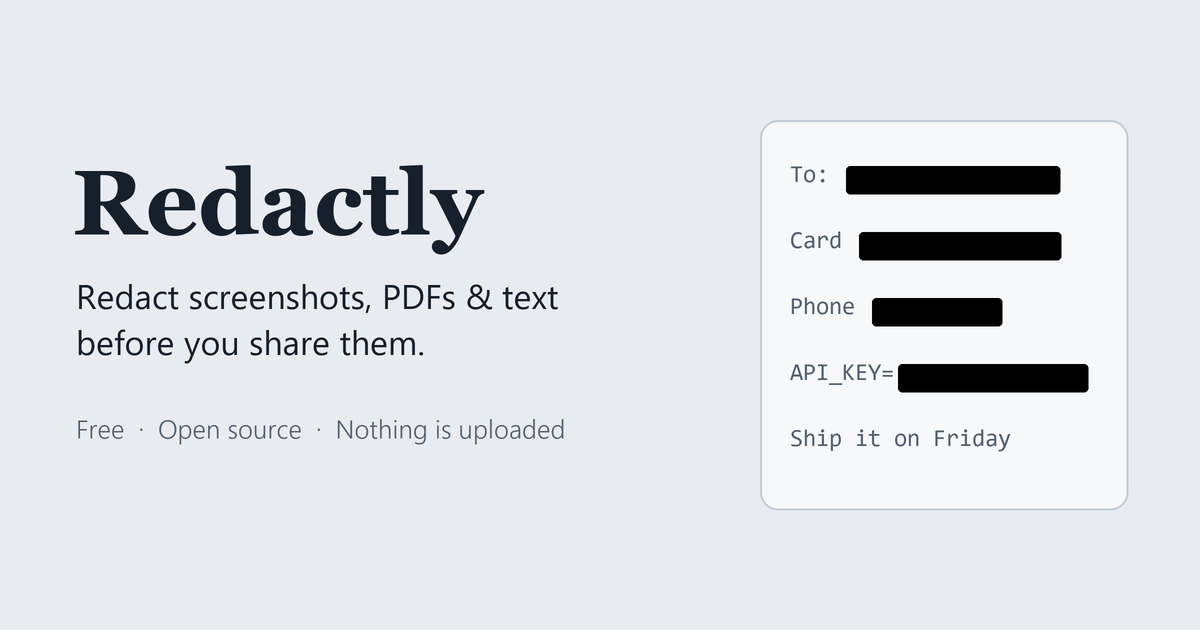
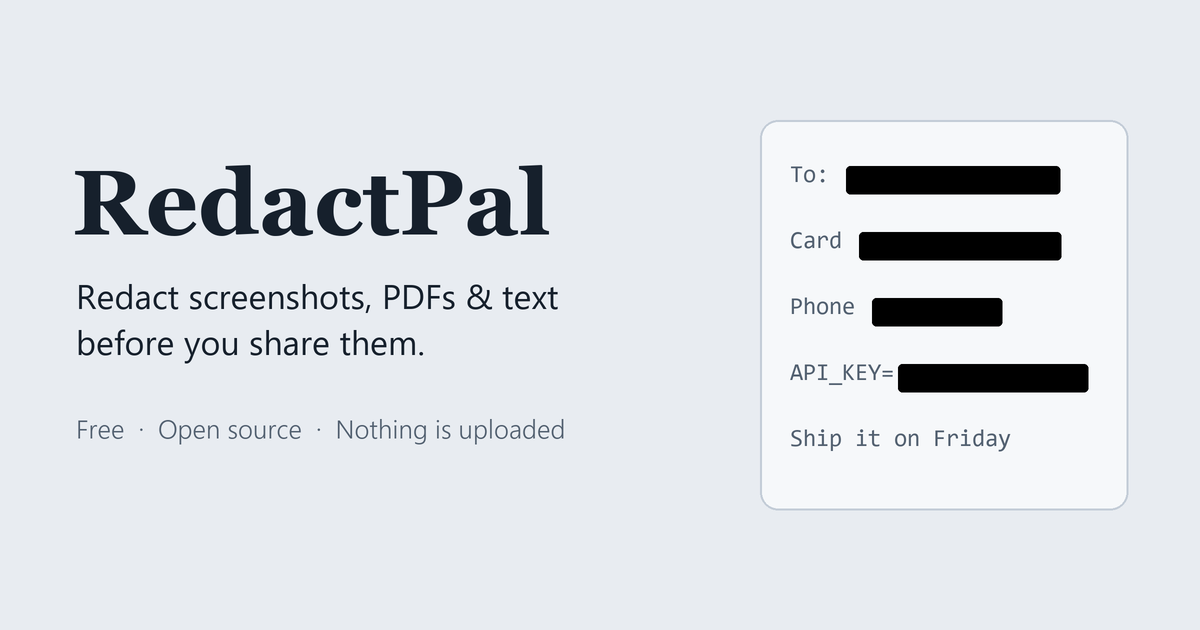
Rename to RedactPal (redactpal.com)
The name Redactly is already used by other redaction products
(redactly.online and several apps). RedactPal had no conflicting
product, app, repository or US trademark. Updates the UI, metadata,
canonical/Open Graph URLs, sitemap, robots, llms.txt, manifest, README,
preview image and package name.

Changed region(s): [[0.3392, 0.2413, 0.4625, 0.4222]]

diff --git a/index.html b/index.html
@@ -5,25 +5,25 @@
   <meta name="viewport" content="width=device-width, initial-scale=1, viewport-fit=cover" />
   <meta http-equiv="Content-Security-Policy" content="default-src 'self'; script-src 'self' 'wasm-unsafe-eval'; worker-src 'self' blob:; img-src 'self' blob: data:; connect-src 'self' blob: data:; style-src 'self' 'unsafe-inline'; object-src 'none'; base-uri 'none'; form-action 'none'" />
   <meta name="referrer" content="no-referrer" />
-  <title>Redactly — Redact screenshots, PDFs &amp; text before you share (free, private)</title>
+  <title>RedactPal — Redact screenshots, PDFs &amp; text before you share (free, private)</title>
   <meta name="description" content="Free online redaction tool that runs in your browser. Black out emails, phone numbers, card numbers, API keys and names in screenshots, PDFs and text — nothing is uploaded. Open source." />
-  <link rel="canonical" href="https://redactly.fyi/" />
+  <link rel="canonical" href="https://redactpal.com/" />
   <meta name="robots" content="index, follow" />
   <!-- Link previews (iMessage, WhatsApp, Slack, X, LinkedIn…) -->
   <meta property="og:type" content="website" />
-  <meta property="og:site_name" content="Redactly" />
-  <meta property="og:url" content="https://redactly.fyi/" />
-  <meta property="og:title" content="Redactly — redact screenshots, PDFs &amp; text before you share" />
+  <meta property="og:site_name" content="RedactPal" />
+  <meta property="og:url" content="https://redactpal.com/" />
+  <meta property="og:title" content="RedactPal — redact screenshots, PDFs &amp; text before you share" />
   <meta property="og:description" content="Black out emails, phone numbers, card numbers and API keys. Free, open source, and nothing is uploaded — it runs in your browser." />
-  <meta property="og:image" content="https://redactly.fyi/og.png" />
+  <meta property="og:image" content="https://redactpal.com/og.png" />
   <meta property="og:image:width" content="1200" />
   <meta property="og:image:height" content="630" />
-  <meta property="og:image:alt" content="Redactly: a document with an email, card number, phone number and API key blacked out" />
+  <meta property="og:image:alt" content="RedactPal: a document with an email, card number, phone number and API key blacked out" />
   <meta name="twitter:card" content="summary_large_image" />
-  <meta name="twitter:title" content="Redactly — redact screenshots, PDFs &amp; text before you share" />
+  <meta name="twitter:title" content="RedactPal — redact screenshots, PDFs &amp; text before you share" />
   <meta name="twitter:description" content="Free, open source, and nothing is uploaded — it runs in your browser." />
-  <meta name="twitter:image" content="https://redactly.fyi/og.png" />
-  <script type="application/ld+json">{"@context":"https://schema.org","@type":"WebApplication","name":"Redactly","url":"https://redactly.fyi/","applicationCategory":"UtilitiesApplication","operatingSystem":"Any (web browser)","offers":{"@type":"Offer","price":"0","priceCurrency":"USD"},"description":"Free in-browser tool to redact screenshots, PDFs and text before sharing. Detects emails, phone numbers, card numbers and API keys; nothing is uploaded.","isAccessibleForFree":true,"license":"https://opensource.org/licenses/MIT"}</script>
+  <meta name="twitter:image" content="https://redactpal.com/og.png" />
+  <script type="application/ld+json">{"@context":"https://schema.org","@type":"WebApplication","name":"RedactPal","url":"https://redactpal.com/","applicationCategory":"UtilitiesApplication","operatingSystem":"Any (web browser)","offers":{"@type":"Offer","price":"0","priceCurrency":"USD"},"description":"Free in-browser tool to redact screenshots, PDFs and text before sharing. Detects emails, phone numbers, card numbers and API keys; nothing is uploaded.","isAccessibleForFree":true,"license":"https://opensource.org/licenses/MIT"}</script>
   <meta name="color-scheme" content="light dark" />
   <meta name="theme-color" content="#E8ECF1" media="(prefers-color-scheme: light)" />
   <meta name="theme-color" content="#0F1318" media="(prefers-color-scheme: dark)" />
@@ -32,25 +32,25 @@
   <link rel="apple-touch-icon" href="/icons/apple-touch-icon.png" />
   <meta name="mobile-web-app-capable" content="yes" />
   <meta name="apple-mobile-web-app-capable" content="yes" />
-  <meta name="apple-mobile-web-app-title" content="Redactly" />
+  <meta name="apple-mobile-web-app-title" content="RedactPal" />
   <meta name="apple-mobile-web-app-status-bar-style" content="default" />
-  <script type="application/ld+json">{"@context":"https://schema.org","@type":"FAQPage","mainEntity":[{"@type":"Question","name":"How do I redact a screenshot?","acceptedAnswer":{"@type":"Answer","text":"Open redactly.fyi and paste the screenshot (Ctrl+V or ⌘V), drop it on the page, or tap “Choose a photo or PDF” on a phone. Emails, phone numbers, card numbers, API keys and other sensitive text are found and highlighted. Tap a highlight to keep it visible, drag over anything that was missed, then copy, share or save the image. The result has solid black boxes."}},{"@type":"Question","name":"How do I redact a PDF for free?","acceptedAnswer":{"@type":"Answer","text":"Drop the PDF on redactly.fyi, check the highlighted items on every page, and download the redacted PDF. Each page is rebuilt from pixels, so text under a box can’t be copied out, and metadata such as author and title is removed. It’s free and needs no account."}},{"@type":"Question","name":"Is my file uploaded anywhere?","acceptedAnswer":{"@type":"Answer","text":"No. Redactly runs entirely in your browser: text recognition and detection happen on your device, and the page is blocked from connecting to other servers. After the first visit it even works offline. The code is open source, so anyone can check."}},{"@type":"Question","name":"Why not just blur or pixelate sensitive info?","acceptedAnswer":{"@type":"Answer","text":"Blurred and pixelated text can often be reconstructed. Redactly only uses solid, opaque boxes, and re-encodes the image so nothing of the original survives under them."}},{"@type":"Question","name":"What does Redactly detect automatically?","acceptedAnswer":{"@type":"Answer","text":"Email addresses, phone numbers, credit card numbers, IBANs, US Social Security numbers, IP addresses, passwords, JWTs and API keys from AWS, GitHub, GitLab, Slack, Stripe, OpenAI, Anthropic, Google and more. Names and addresses have no fixed format: draw a box over one once and Redactly offers to hide it everywhere it appears."}},{"@type":"Question","name":"Can I redact text before pasting it into ChatGPT or another AI?","acceptedAnswer":{"@type":"Answer","text":"Yes. Paste the text and copy the safe version: sensitive values become placeholders like [EMAIL_1]. When the AI replies, paste the reply back and Redactly puts your real details back in."}},{"@type":"Question","name":"Does it work on iPhone and Android?","acceptedAnswer":{"@type":"Answer","text":"Yes. Open redactly.fyi in any mobile browser, pick a photo or PDF, and share the result. You can add it to your home screen, and on Android you can share a photo straight to Redactly."}},{"@type":"Question","name":"Can my company use or self-host Redactly?","acceptedAnswer":{"@type":"Answer","text":"Yes. Redactly is MIT-licensed and is just static files, so it can be hosted on an internal server with no backend. Files never leave the device."}}]}</script>
+  <script type="application/ld+json">{"@context":"https://schema.org","@type":"FAQPage","mainEntity":[{"@type":"Question","name":"How do I redact a screenshot?","acceptedAnswer":{"@type":"Answer","text":"Open redactpal.com and paste the screenshot (Ctrl+V or ⌘V), drop it on the page, or tap “Choose a photo or PDF” on a phone. Emails, phone numbers, card numbers, API keys and other sensitive text are found and highlighted. Tap a highlight to keep it visible, drag over anything that was missed, then copy, share or save the image. The result has solid black boxes."}},{"@type":"Question","name":"How do I redact a PDF for free?","acceptedAnswer":{"@type":"Answer","text":"Drop the PDF on redactpal.com, check the highlighted items on every page, and download the redacted PDF. Each page is rebuilt from pixels, so text under a box can’t be copied out, and metadata such as author and title is removed. It’s free and needs no account."}},{"@type":"Question","name":"Is my file uploaded anywhere?","acceptedAnswer":{"@type":"Answer","text":"No. RedactPal runs entirely in your browser: text recognition and detection happen on your device, and the page is blocked from connecting to other servers. After the first visit it even works offline. The code is open source, so anyone can check."}},{"@type":"Question","name":"Why not just blur or pixelate sensitive info?","acceptedAnswer":{"@type":"Answer","text":"Blurred and pixelated text can often be reconstructed. RedactPal only uses solid, opaque boxes, and re-encodes the image so nothing of the original survives under them."}},{"@type":"Question","name":"What does RedactPal detect automatically?","acceptedAnswer":{"@type":"Answer","text":"Email addresses, phone numbers, credit card numbers, IBANs, US Social Security numbers, IP addresses, passwords, JWTs and API keys from AWS, GitHub, GitLab, Slack, Stripe, OpenAI, Anthropic, Google and more. Names and addresses have no fixed format: draw a box over one once and RedactPal offers to hide it everywhere it appears."}},{"@type":"Question","name":"Can I redact text before pasting it into ChatGPT or another AI?","acceptedAnswer":{"@type":"Answer","text":"Yes. Paste the text and copy the safe version: sensitive values become placeholders like [EMAIL_1]. When the AI replies, paste the reply back and RedactPal puts your real details back in."}},{"@type":"Question","name":"Does it work on iPhone and Android?","acceptedAnswer":{"@type":"Answer","text":"Yes. Open redactpal.com in any mobile browser, pick a photo or PDF, and share the result. You can add it to your home screen, and on Android you can share a photo straight to RedactPal."}},{"@type":"Question","name":"Can my company use or self-host RedactPal?","acceptedAnswer":{"@type":"Answer","text":"Yes. RedactPal is MIT-licensed and is just static files, so it can be hosted on an internal server with no backend. Files never leave the device."}}]}</script>
 </head>
 <body>
   <div id="app">
-    <noscript>Redactly needs JavaScript to read your files locally. Nothing is uploaded.</noscript>
+    <noscript>RedactPal needs JavaScript to read your files locally. Nothing is uploaded.</noscript>
   </div>
   <!-- Static, crawlable answers to what people search for (shown below the tool on the start screen). -->
   <section class="faq" aria-labelledby="faq-title">
     <h2 id="faq-title">Redact screenshots, PDFs and text — questions</h2>
-      <details class="faq__item"><summary>How do I redact a screenshot?</summary><p>Open redactly.fyi and paste the screenshot (Ctrl+V or ⌘V), drop it on the page, or tap “Choose a photo or PDF” on a phone. Emails, phone numbers, card numbers, API keys and other sensitive text are found and highlighted. Tap a highlight to keep it visible, drag over anything that was missed, then copy, share or save the image. The result has solid black boxes.</p></details>
-      <details class="faq__item"><summary>How do I redact a PDF for free?</summary><p>Drop the PDF on redactly.fyi, check the highlighted items on every page, and download the redacted PDF. Each page is rebuilt from pixels, so text under a box can’t be copied out, and metadata such as author and title is removed. It’s free and needs no account.</p></details>
-      <details class="faq__item"><summary>Is my file uploaded anywhere?</summary><p>No. Redactly runs entirely in your browser: text recognition and detection happen on your device, and the page is blocked from connecting to other servers. After the first visit it even works offline. The code is open source, so anyone can check.</p></details>
-      <details class="faq__item"><summary>Why not just blur or pixelate sensitive info?</summary><p>Blurred and pixelated text can often be reconstructed. Redactly only uses solid, opaque boxes, and re-encodes the image so nothing of the original survives under them.</p></details>
-      <details class="faq__item"><summary>What does Redactly detect automatically?</summary><p>Email addresses, phone numbers, credit card numbers, IBANs, US Social Security numbers, IP addresses, passwords, JWTs and API keys from AWS, GitHub, GitLab, Slack, Stripe, OpenAI, Anthropic, Google and more. Names and addresses have no fixed format: draw a box over one once and Redactly offers to hide it everywhere it appears.</p></details>
-      <details class="faq__item"><summary>Can I redact text before pasting it into ChatGPT or another AI?</summary><p>Yes. Paste the text and copy the safe version: sensitive values become placeholders like [EMAIL_1]. When the AI replies, paste the reply back and Redactly puts your real details back in.</p></details>
-      <details class="faq__item"><summary>Does it work on iPhone and Android?</summary><p>Yes. Open redactly.fyi in any mobile browser, pick a photo or PDF, and share the result. You can add it to your home screen, and on Android you can share a photo straight to Redactly.</p></details>
-      <details class="faq__item"><summary>Can my company use or self-host Redactly?</summary><p>Yes. Redactly is MIT-licensed and is just static files, so it can be hosted on an internal server with no backend. Files never leave the device.</p></details>
+      <details class="faq__item"><summary>How do I redact a screenshot?</summary><p>Open redactpal.com and paste the screenshot (Ctrl+V or ⌘V), drop it on the page, or tap “Choose a photo or PDF” on a phone. Emails, phone numbers, card numbers, API keys and other sensitive text are found and highlighted. Tap a highlight to keep it visible, drag over anything that was missed, then copy, share or save the image. The result has solid black boxes.</p></details>
+      <details class="faq__item"><summary>How do I redact a PDF for free?</summary><p>Drop the PDF on redactpal.com, check the highlighted items on every page, and download the redacted PDF. Each page is rebuilt from pixels, so text under a box can’t be copied out, and metadata such as author and title is removed. It’s free and needs no account.</p></details>
+      <details class="faq__item"><summary>Is my file uploaded anywhere?</summary><p>No. RedactPal runs entirely in your browser: text recognition and detection happen on your device, and the page is blocked from connecting to other servers. After the first visit it even works offline. The code is open source, so anyone can check.</p></details>
+      <details class="faq__item"><summary>Why not just blur or pixelate sensitive info?</summary><p>Blurred and pixelated text can often be reconstructed. RedactPal only uses solid, opaque boxes, and re-encodes the image so nothing of the original survives under them.</p></details>
+      <details class="faq__item"><summary>What does RedactPal detect automatically?</summary><p>Email addresses, phone numbers, credit card numbers, IBANs, US Social Security numbers, IP addresses, passwords, JWTs and API keys from AWS, GitHub, GitLab, Slack, Stripe, OpenAI, Anthropic, Google and more. Names and addresses have no fixed format: draw a box over one once and RedactPal offers to hide it everywhere it appears.</p></details>
+      <details class="faq__item"><summary>Can I redact text before pasting it into ChatGPT or another AI?</summary><p>Yes. Paste the text and copy the safe version: sensitive values become placeholders like [EMAIL_1]. When the AI replies, paste the reply back and RedactPal puts your real details back in.</p></details>
+      <details class="faq__item"><summary>Does it work on iPhone and Android?</summary><p>Yes. Open redactpal.com in any mobile browser, pick a photo or PDF, and share the result. You can add it to your home screen, and on Android you can share a photo straight to RedactPal.</p></details>
+      <details class="faq__item"><summary>Can my company use or self-host RedactPal?</summary><p>Yes. RedactPal is MIT-licensed and is just static files, so it can be hosted on an internal server with no backend. Files never leave the device.</p></details>
   </section>
   <script type="module" src="/src/main.ts"></script>
 </body>

diff --git a/src/ui/app.ts b/src/ui/app.ts
@@ -48,7 +48,7 @@ export function startApp(mount: HTMLElement): void {
     'div',
     { class: 'shell' },
     h('a', { class: 'skip', href: '#main' }, 'Skip to content'),
-    h('header', { class: 'masthead' }, h('span', { class: 'brand' }, svg(MARK), h('span', { class: 'brand__name' }, 'Redactly'))),
+    h('header', { class: 'masthead' }, h('span', { class: 'brand' }, svg(MARK), h('span', { class: 'brand__name' }, 'RedactPal'))),
     main,
     footer(),
     h('div', { class: 'drop-overlay', 'aria-hidden': 'true' }, h('p', null, 'Drop to redact. It stays on this device.')),
@@ -308,8 +308,8 @@ function footer(): HTMLElement {
         'ul',
         { class: 'how__list' },
         point('On your device.', 'Text recognition and detection run in this page. It is blocked from connecting to any other server.'),
-        point('Detection can miss things.', 'It finds patterns like emails, card numbers and API keys, not names — draw a box over a name and Redactly offers to hide it everywhere. Always check before you share.'),
-        point('Solid boxes only.', 'Blur and pixelation can be reversed, so Redactly never uses them.'),
+        point('Detection can miss things.', 'It finds patterns like emails, card numbers and API keys, not names — draw a box over a name and RedactPal offers to hide it everywhere. Always check before you share.'),
+        point('Solid boxes only.', 'Blur and pixelation can be reversed, so RedactPal never uses them.'),
         point('Rebuilt from pixels.', 'You get a new PNG, or a new PDF of page images: no location data, metadata or hidden text. PDF text won’t be selectable.'),
         point('Nothing is kept.', 'Closing the tab forgets your file and your terms.'),
       ),

diff --git a/src/image/index.ts b/src/image/index.ts
@@ -137,7 +137,7 @@ export function ocrScale(source: Size, ocrImage: Size): Size {
 export interface ImageAnalysis extends PageAnalysis {
   /** The decoded image: what the review screen draws and the exporter saves. width/height are its size. */
   bitmap: ImageBitmap;
-  /** Set when the file was larger than this device can handle and Redactly works on a smaller copy. */
+  /** Set when the file was larger than this device can handle and RedactPal works on a smaller copy. */
   original?: Size;
   /** User-facing note to show with the result (e.g. "the saved image will be W × H"). */
   notice?: string;
@@ -159,7 +159,7 @@ export async function analyzeImage(file: Blob, opts: DetectOptions = {}, onProgr
     try {
       tokens = (await ocrJob(bitmap, (f, msg) => onProgress?.(0.02 + 0.88 * f, msg), big ? PREPARING_PHOTO : undefined)).tokens;
     } catch (e) {
-      console.warn('Redactly: OCR failed', e);
+      console.warn('RedactPal: OCR failed', e);
       onProgress?.(1, 'Done');
       return { width, height, tokens: [], text: '', findings: [], regions: [], warning: IMAGE_OCR_FAILED_WARNING, bitmap, ...extra };
     }
@@ -262,7 +262,7 @@ export async function decodeImageDetailed(file: Blob, budget: ImageBudget = curr
     throw new Error(`SVG images aren't supported. Export or screenshot it as PNG first.`);
   }
   if (type && !type.startsWith('image/')) {
-    throw new Error(`This file type (${type}) isn't an image Redactly can read. ${SUPPORTED}`);
+    throw new Error(`This file type (${type}) isn't an image RedactPal can read. ${SUPPORTED}`);
   }
   if (file.size === 0) throw new Error('This file is empty.');
   if (file.size > MAX_IMAGE_BYTES) {

diff --git a/src/pdf/pdfjs.ts b/src/pdf/pdfjs.ts
@@ -32,14 +32,14 @@ const ASSETS: Record<string, Map<string, string>> = {
 };
 
 /** Same-origin replacement for pdf.js' DOMBinaryDataFactory (which needs a directory URL). */
-class RedactlyBinaryDataFactory {
+class RedactPalBinaryDataFactory {
   // pdf.js constructs the factory with { cMapUrl, standardFontDataUrl, wasmUrl }; we ignore them.
   constructor(_opts?: unknown) {}
   async fetch({ kind, filename }: { kind: string; filename: string }): Promise<Uint8Array> {
     const url = ASSETS[kind]?.get(filename);
-    if (!url) throw new Error(`Redactly: no bundled pdf.js ${kind} asset "${filename}"`);
+    if (!url) throw new Error(`RedactPal: no bundled pdf.js ${kind} asset "${filename}"`);
     const res = await fetch(url);
-    if (!res.ok) throw new Error(`Redactly: failed to load ${url} (${res.status})`);
+    if (!res.ok) throw new Error(`RedactPal: failed to load ${url} (${res.status})`);
     return new Uint8Array(await res.arrayBuffer());
   }
 }
@@ -55,7 +55,7 @@ export function documentParams(data: Uint8Array): Parameters<typeof pdfjs.getDoc
     standardFontDataUrl: 'blot-assets/standard_fonts/',
     wasmUrl: 'blot-assets/wasm/',
     useWorkerFetch: false,
-    BinaryDataFactory: RedactlyBinaryDataFactory,
+    BinaryDataFactory: RedactPalBinaryDataFactory,
     useWasm: true,
     // No XFA forms (they can contain scripts / remote resources). Non-embedded fonts use local() system
     // fonts (no network; best for non-embedded CJK), Symbol/ZapfDingbats come from our bundled standard fonts.

diff --git a/src/pdf/index.ts b/src/pdf/index.ts
@@ -79,7 +79,7 @@ function loadError(e: unknown): PdfError {
   if (name === 'PasswordException') {
     return new PdfError(
       'password',
-      'This PDF is password-protected. Redactly can’t open encrypted PDFs yet — remove the password first ' +
+      'This PDF is password-protected. RedactPal can’t open encrypted PDFs yet — remove the password first ' +
         '(e.g. open it in your PDF viewer and save or “Print to PDF” an unprotected copy), then drop that copy here.',
       e,
     );
@@ -314,7 +314,7 @@ export async function analyzePdf(file: Blob, opts: AnalyzePdfOptions = {}, onPro
   try {
     const n = doc.numPages;
     if (n > MAX_PAGES) {
-      throw new PdfError('too_many_pages', `This PDF has ${n} pages. Redactly handles up to ${MAX_PAGES} pages at a time — split it into smaller parts first.`);
+      throw new PdfError('too_many_pages', `This PDF has ${n} pages. RedactPal handles up to ${MAX_PAGES} pages at a time — split it into smaller parts first.`);
     }
     const metadata = await readMetadata(mod, doc);
     let annotationTotal = 0;
@@ -333,7 +333,7 @@ export async function analyzePdf(file: Blob, opts: AnalyzePdfOptions = {}, onPro
       let scanned = false;
       let warning: string | undefined;
       const ocrFailed = (e: unknown) => {
-        console.warn(`Redactly: OCR failed on page ${i + 1}`, e);
+        console.warn(`RedactPal: OCR failed on page ${i + 1}`, e);
         warning = OCR_FAILED_WARNING;
       };
 

diff --git a/src/image/budget.ts b/src/image/budget.ts
@@ -138,11 +138,11 @@ export function decodeResizeWidth(shown: Size, target: Size, rotated: boolean): 
   return Math.max(1, Math.floor(base * s));
 }
 
-/** User-facing note when Redactly works on (and saves) a smaller copy of a huge photo. */
+/** User-facing note when RedactPal works on (and saves) a smaller copy of a huge photo. */
 export function downscaleNotice(original: Size, used: Size): string {
   const mp = Math.round((original.width * original.height) / 1e6);
   return (
-    `This photo is very large (${mp} MP), so to stay within your device's memory Redactly works on a ` +
+    `This photo is very large (${mp} MP), so to stay within your device's memory RedactPal works on a ` +
     `${used.width} × ${used.height} copy. The image you save will be that size.`
   );
 }

diff --git a/src/ui/styles.css b/src/ui/styles.css
@@ -1,4 +1,4 @@
-/* Redactly — a security-envelope look: cool paper, blue-black ink, a faint crosshatch tint where
+/* RedactPal — a security-envelope look: cool paper, blue-black ink, a faint crosshatch tint where
    sensitive things are handled, and one true black reserved for the redaction itself. */
 
 :root {
@@ -32,7 +32,7 @@
   --bar-h: 3.75rem;
   --head-h: 3.5rem;
 
-  /* Notches, rounded corners and home indicators (viewport-fit=cover; mostly matters when Redactly runs
+  /* Notches, rounded corners and home indicators (viewport-fit=cover; mostly matters when RedactPal runs
      as an installed app or in landscape). Side gutters never shrink below --gutter. */
   --safe-top: env(safe-area-inset-top, 0px);
   --safe-bottom: env(safe-area-inset-bottom, 0px);

diff --git a/src/ui/install.ts b/src/ui/install.ts
@@ -111,7 +111,7 @@ export function createInstallLink(): { el: HTMLElement; destroy(): void } {
         'mac-safari': ['In the menu bar, choose File → “Add to Dock”.'],
       };
       const label = offer === 'mac-safari' ? 'Add to Dock' : offer === 'android-firefox' ? 'Install app' : 'Add to Home Screen';
-      const how = h('span', { class: 'install__how', id: 'install-how', hidden: true }, ...steps[offer], ' Redactly then opens like an app and works offline.');
+      const how = h('span', { class: 'install__how', id: 'install-how', hidden: true }, ...steps[offer], ' RedactPal then opens like an app and works offline.');
       const link = h(
         'button',
         {

diff --git a/src/ui/format.ts b/src/ui/format.ts
@@ -20,7 +20,7 @@ export function classifyFile(f: { type?: string; name?: string }): InputKind {
 export function unsupportedMessage(f: { type?: string; name?: string }): string {
   if ((f.type || '').toLowerCase() === 'image/svg+xml' || /\.svg$/i.test(f.name || ''))
     return 'SVG files can hide text that isn’t visible. Take a screenshot of it and drop that instead.';
-  return 'Redactly works with screenshots and photos (PNG, JPG, WebP), PDFs, and plain text.';
+  return 'RedactPal works with screenshots and photos (PNG, JPG, WebP), PDFs, and plain text.';
 }
 
 /** "Screenshot 2024-05-01.png" -> "Screenshot 2024-05-01-redacted.png". */

diff --git a/tests/pdf.flatten.test.ts b/tests/pdf.flatten.test.ts
@@ -54,7 +54,7 @@ describe('flattened PDF output', () => {
     const doc = await pdfjs.getDocument({ data: bytes.slice(), verbosity: 0 }).promise;
     expect(doc.numPages).toBe(2);
     const { info, metadata } = (await doc.getMetadata()) as { info: Record<string, unknown>; metadata: unknown };
-    expect(info.Producer).toBe('Redactly');
+    expect(info.Producer).toBe('RedactPal');
     for (const k of ['Title', 'Author', 'Creator', 'Subject', 'Keywords', 'CreationDate', 'ModDate']) expect(info[k], k).toBeUndefined();
     expect(metadata).toBeFalsy(); // no XMP
 

diff --git a/src/pdf/flatten.ts b/src/pdf/flatten.ts
@@ -11,10 +11,10 @@ import {
 } from 'pdf-lib';
 import { pngUpRows } from './encode';
 
-/** Fresh document with minimal metadata: only /Producer (Redactly). No Creator, Title, Author or dates. */
+/** Fresh document with minimal metadata: only /Producer (RedactPal). No Creator, Title, Author or dates. */
 export async function createOutputDoc(): Promise<PDFDocument> {
   const doc = await PDFDocument.create({ updateMetadata: false });
-  doc.setProducer('Redactly');
+  doc.setProducer('RedactPal');
   return doc;
 }
 

diff --git a/public/sw.js b/public/sw.js
@@ -1,4 +1,4 @@
-// Redactly service worker: keeps the app's own files so it works offline. Same-origin GETs only;
+// RedactPal service worker: keeps the app's own files so it works offline. Same-origin GETs only;
 // it never sees your files (they are read locally by the page) — with one exception: a photo or PDF
 // shared to the installed app from Android's share sheet arrives here as a POST. It is parked in its
 // own cache ('blot-share') just long enough for the page to pick it up, and the page deletes it
